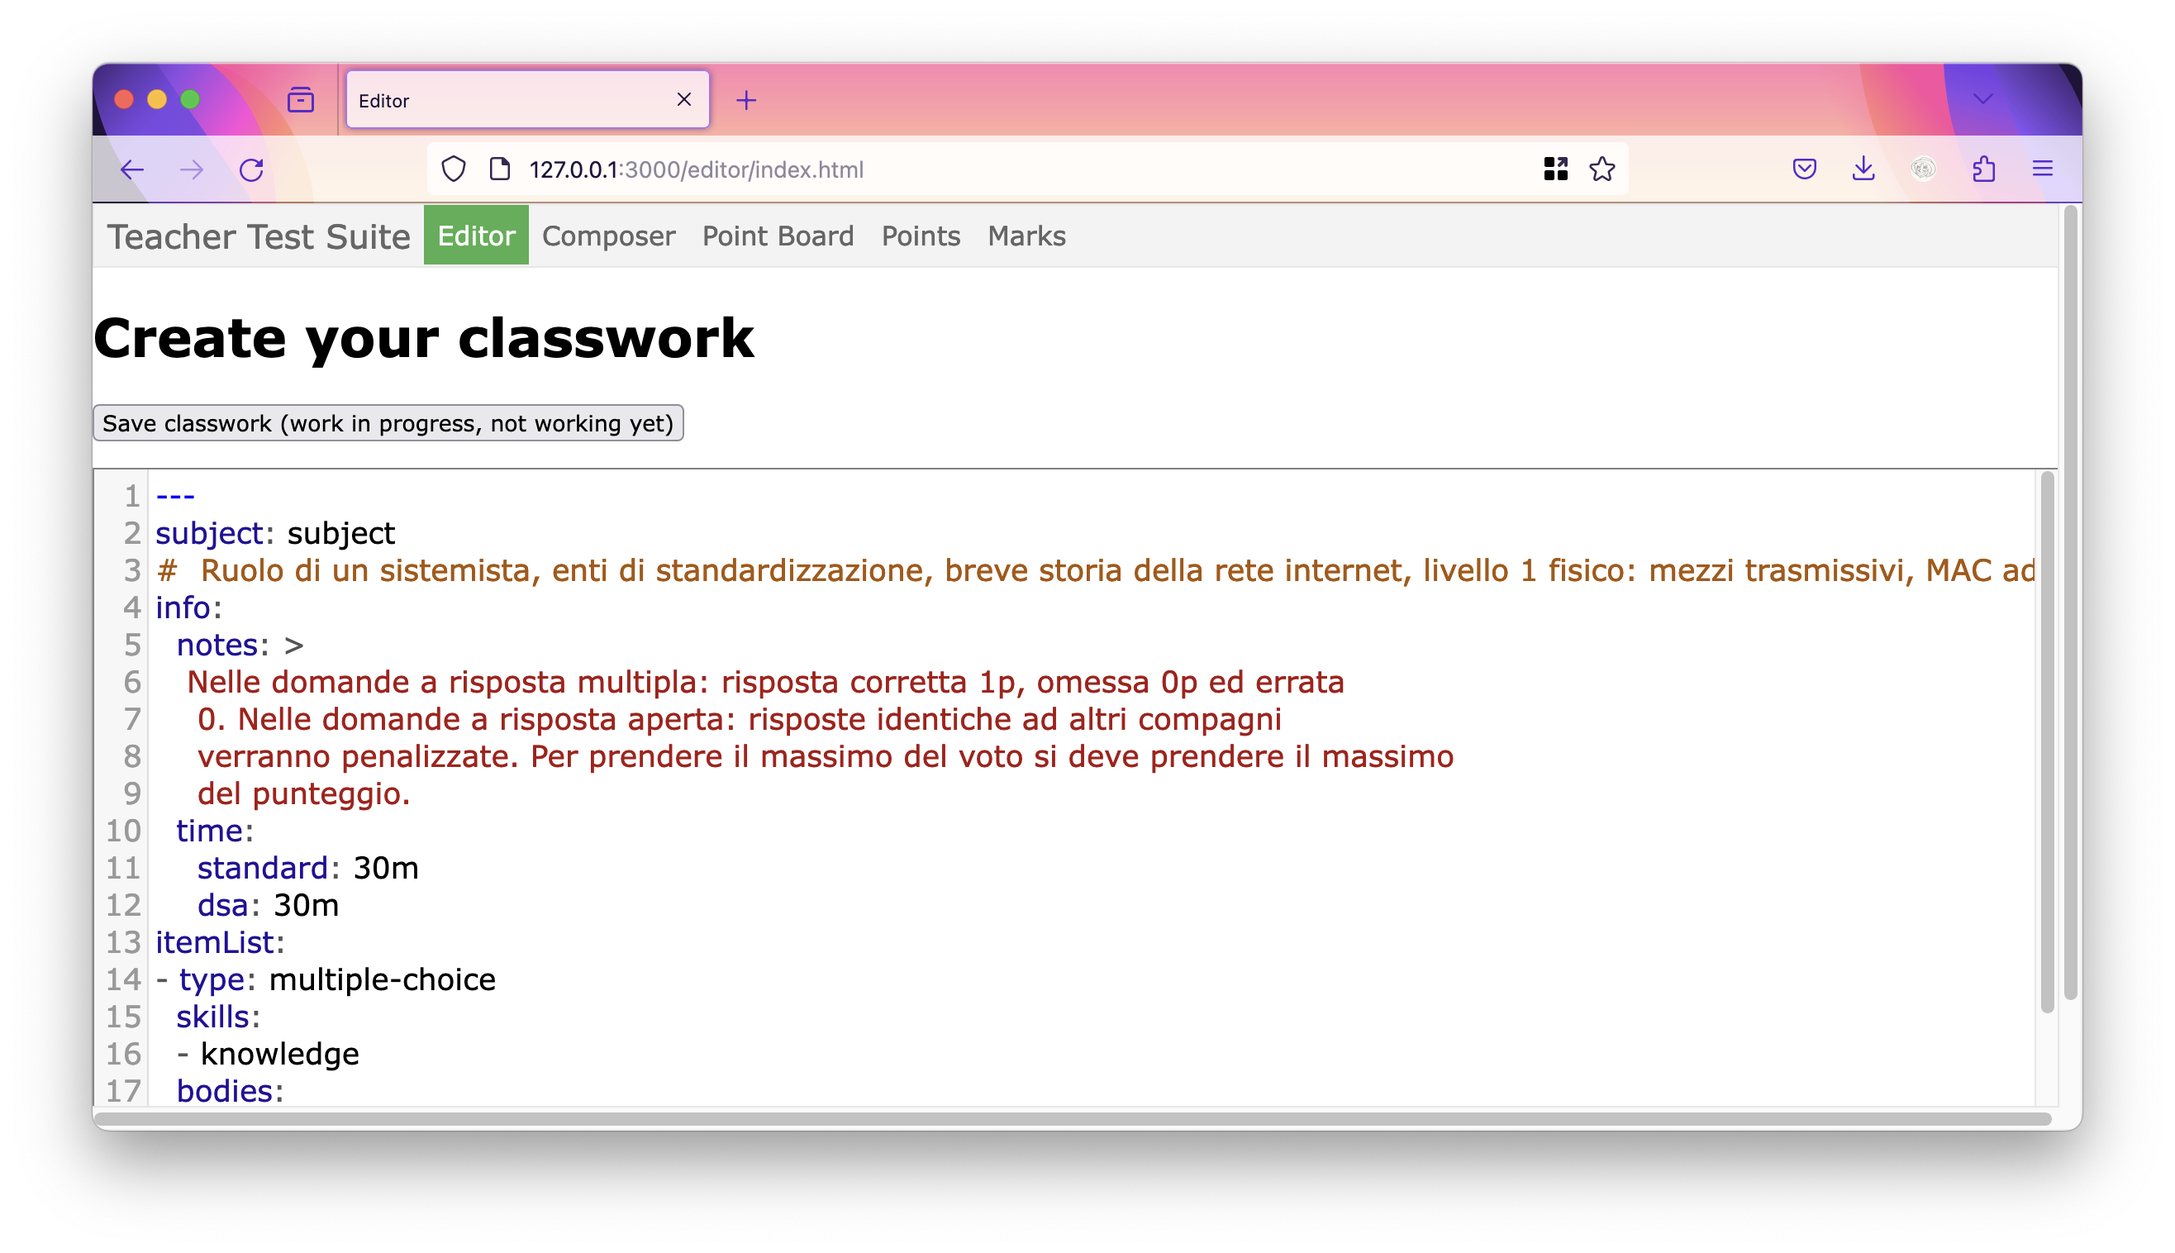
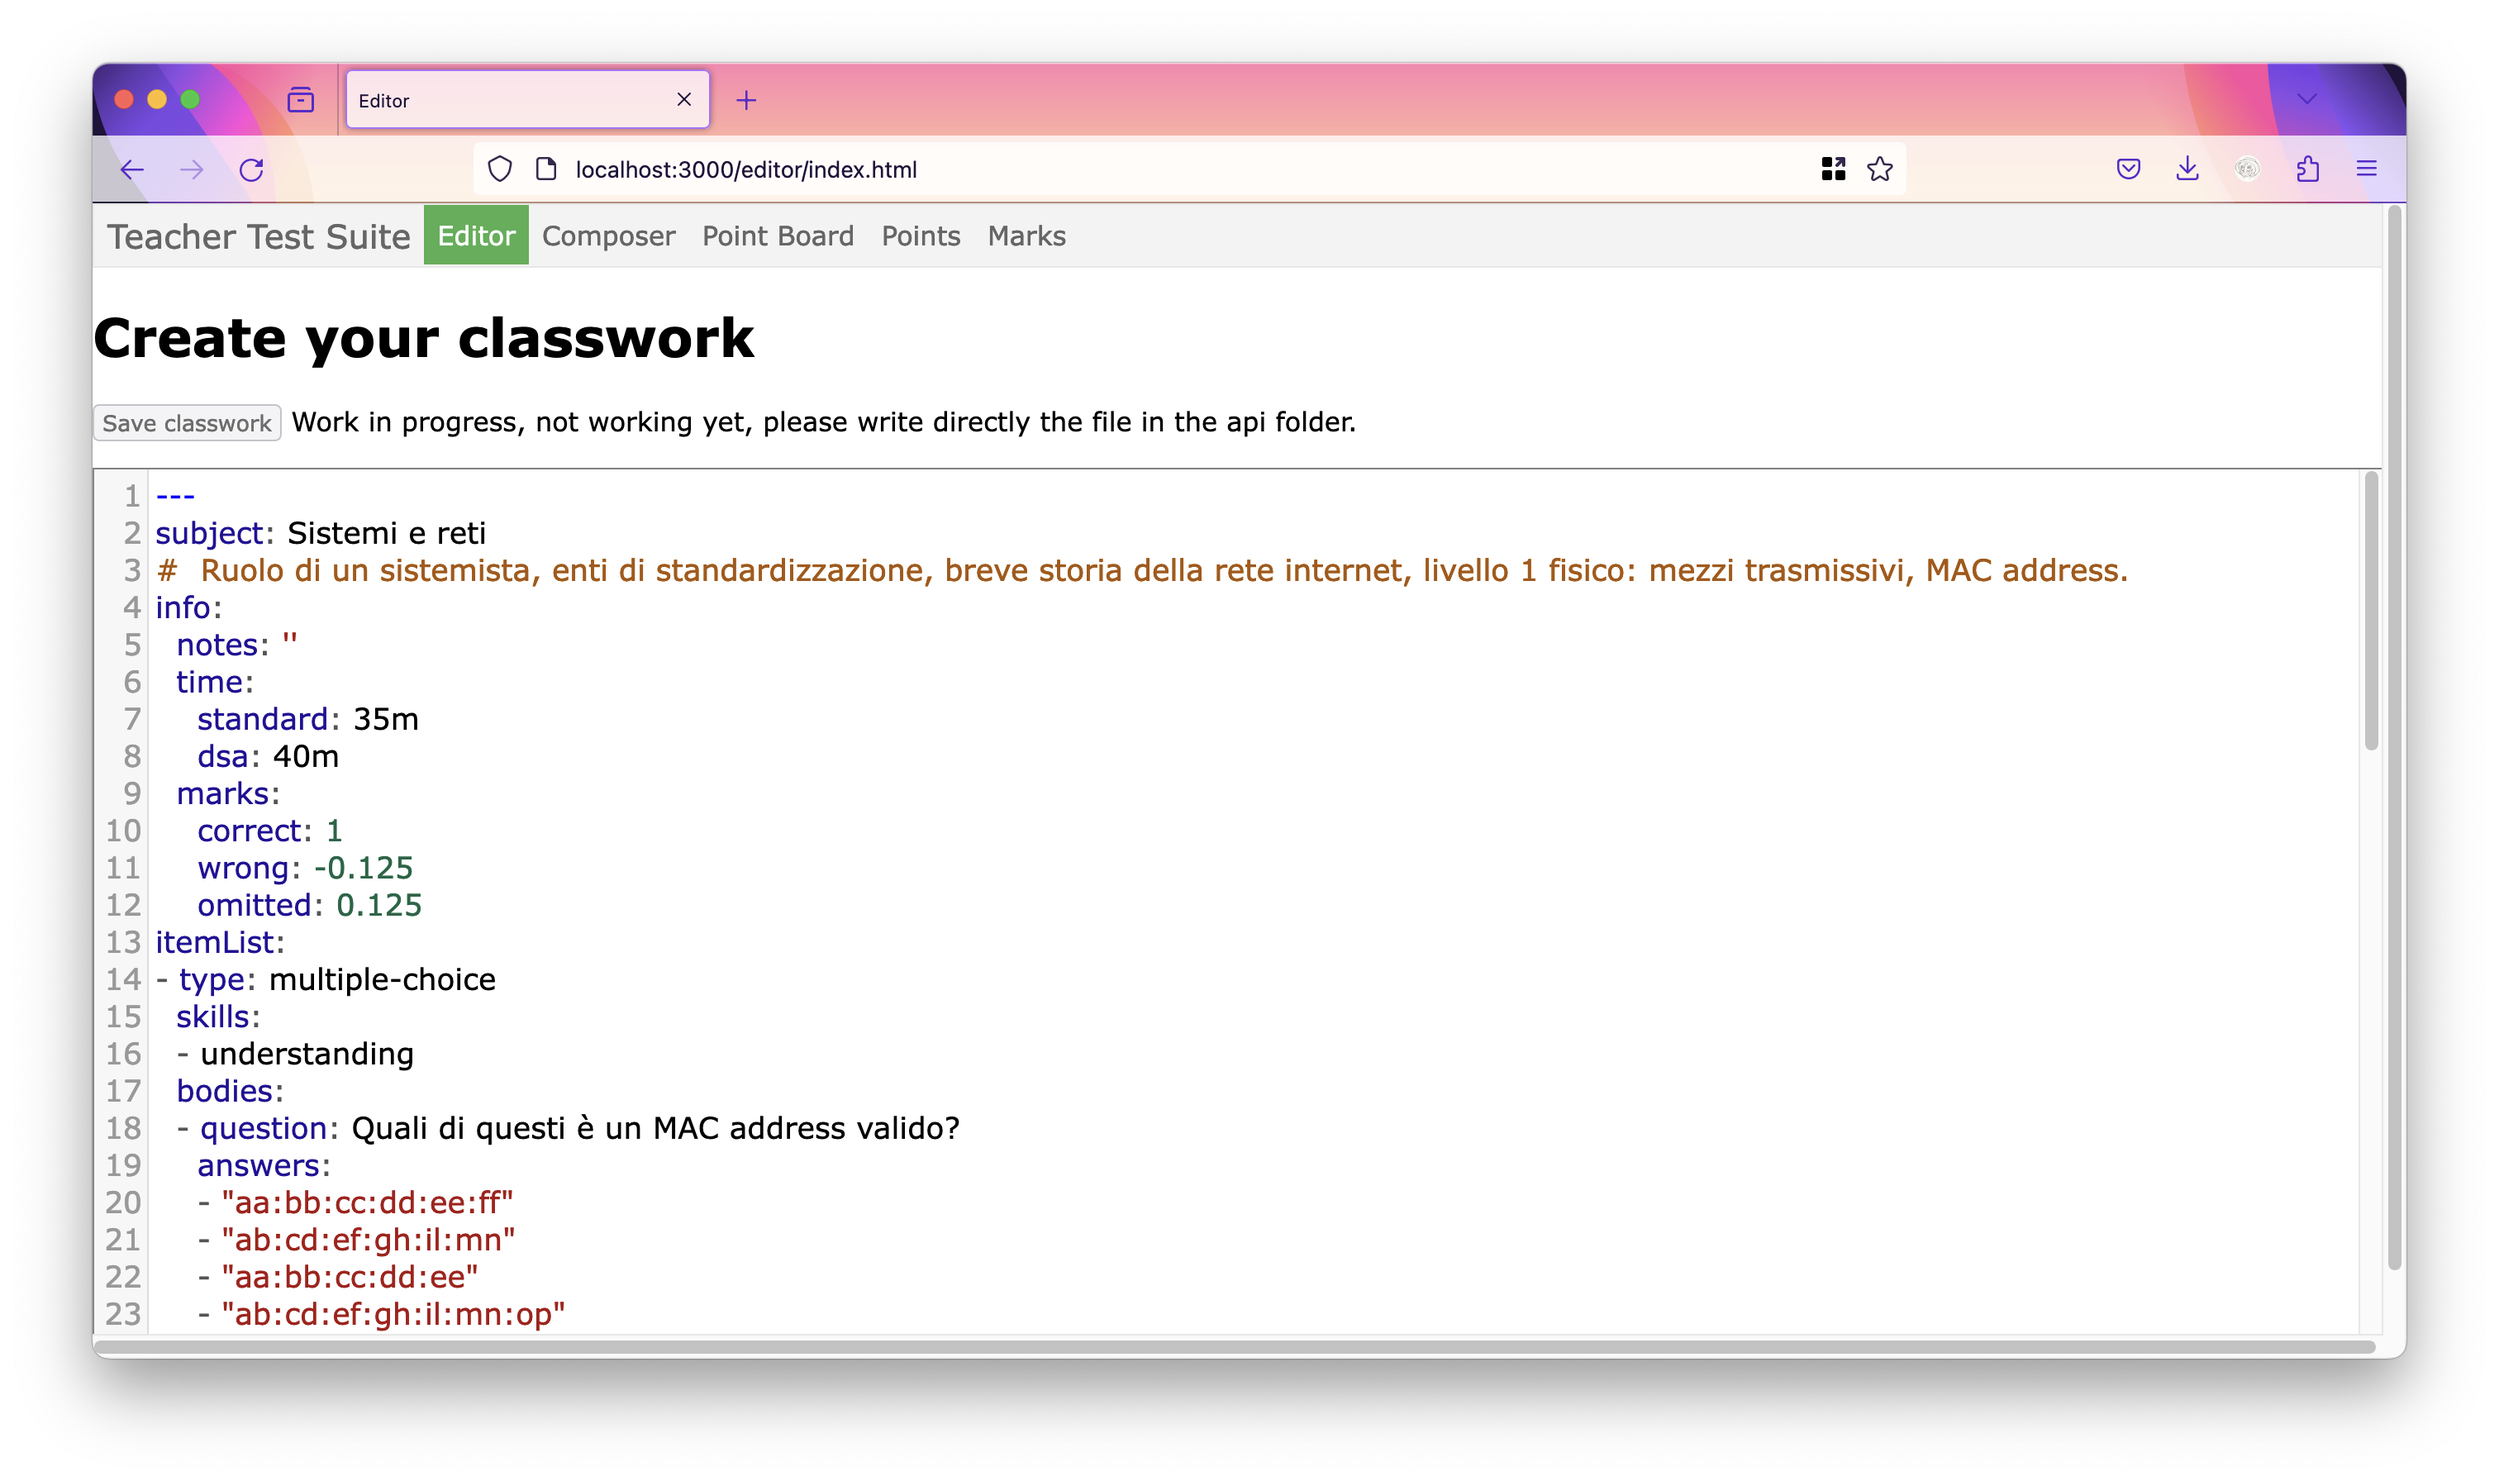
update editor placeholder

Changed region(s): [[0.0312, 0.031, 0.9658, 0.9301]]

diff --git a/src/editor/placeholder.js b/src/editor/placeholder.js
@@ -1,24 +1,70 @@
 var yamlPlaceholder = `---
-subject: subject
+subject: Sistemi e reti
 #  Ruolo di un sistemista, enti di standardizzazione, breve storia della rete internet, livello 1 fisico: mezzi trasmissivi, MAC address. 
 info:
-  notes: >
-   Nelle domande a risposta multipla: risposta corretta 1p, omessa 0p ed errata
-    0. Nelle domande a risposta aperta: risposte identiche ad altri compagni
-    verranno penalizzate. Per prendere il massimo del voto si deve prendere il massimo
-    del punteggio.
+  notes: ''
   time:
-    standard: 30m
-    dsa: 30m
+    standard: 35m
+    dsa: 40m
+  marks:
+    correct: 1
+    wrong: -0.125
+    omitted: 0.125
 itemList:
+- type: multiple-choice
+  skills:
+  - understanding
+  bodies:
+  - question: Quali di questi è un MAC address valido?
+    answers:
+    - "aa:bb:cc:dd:ee:ff"
+    - "ab:cd:ef:gh:il:mn"
+    - "aa:bb:cc:dd:ee"
+    - "ab:cd:ef:gh:il:mn:op"
+  - question: Quali di questi è un MAC address valido?
+    answers:
+    - "12:34:56:78:9a:bc"
+    - "12:34:56:78:9a:bc:de"
+    - "12:34:56:78:9a"
+    - "1234:5678"
 - type: multiple-choice
   skills:
   - knowledge
   bodies:
-  - question: question?
+  - question: Da quanti bit è formato un MAC address?
     answers:
-    - answer1
-    - answer2
-    - answer3
-    - answer4
+    - 48
+    - 6
+    - 12
+    - 24
+  - question: Da quanti byte è formato un MAC address?
+    answers:
+    - 6
+    - 48
+    - 12
+    - 24
+- type: open-answer
+  skills:
+  - application
+  bodies:
+  - question: "Descrivere come è fatto un indirizzo MAC, qual è il suo uso, da quale ente è gestito. Scrivere un esempio di un possibile indirizzo MAC valido."
+  nRows: 4
+  evaluation:
+    hint: è fatto da 6 byte nella forma aa:bb:cc:dd:ee:ff, i primi 3 sono il manufacturer, gli altri id della scheda. Unico in tutto il mondo. Gestito da ICANN. Serve ad identificare in modo univoco un'interfaccia di rete.
+    pointList:
+    - description: esempio
+      short: es
+      points: 1
+    - description: formato
+      short: form
+      points: 1
+    - description: uso
+      short: use
+      points: 1
+    - description: standard
+      short: standard
+      points: 1
+
+
+
 `

diff --git a/src/editor/index.html b/src/editor/index.html
@@ -33,7 +33,7 @@
         </nav>
     </div>
     <h1>Create your classwork</h1>
-    <button id="save-yaml">Save classwork (work in progress, not working yet)</button>
+    <button id="save-yaml" disabled>Save classwork</button> Work in progress, not working yet, please write directly the file in the api folder.
     <div class="code-container">
         <textarea name="yaml-code" id="yaml-code" cols="100" rows="30"></textarea>
     </div>
